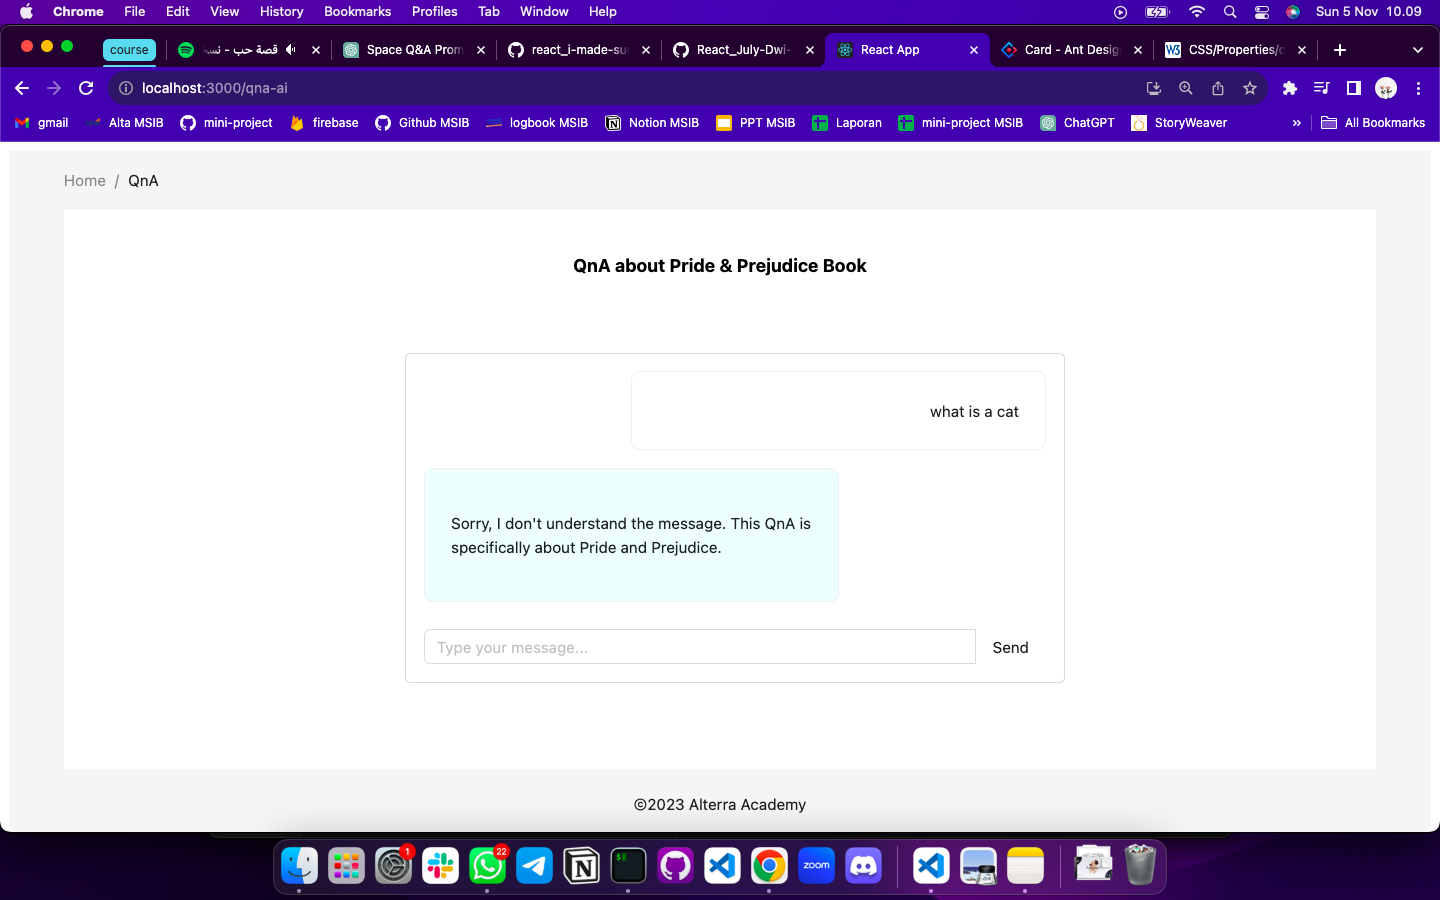
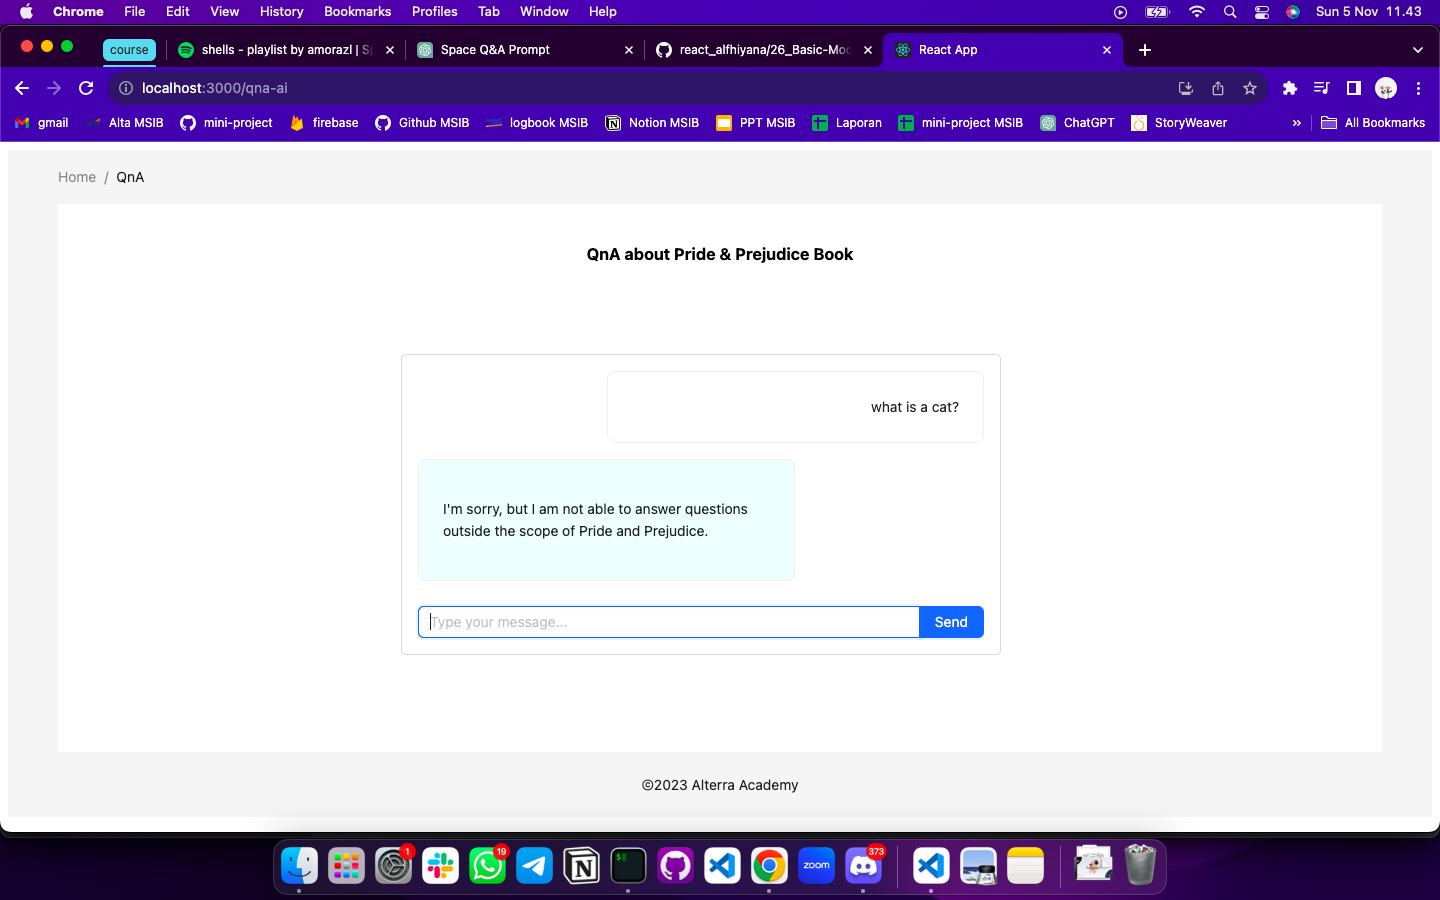
update button

diff --git a/26_Basic-Model-OpenAI/my-app/src/pages/QnA.jsx b/26_Basic-Model-OpenAI/my-app/src/pages/QnA.jsx
@@ -113,7 +113,7 @@ const QnA = () => {
                         placeholder="Type your message..."
                         onPressEnter={handleSendMessage}
                       />
-                      <Button type="submit" onClick={handleSendMessage}>
+                      <Button type="primary" onClick={handleSendMessage}>
                         Send
                       </Button>
                     </Space.Compact>
